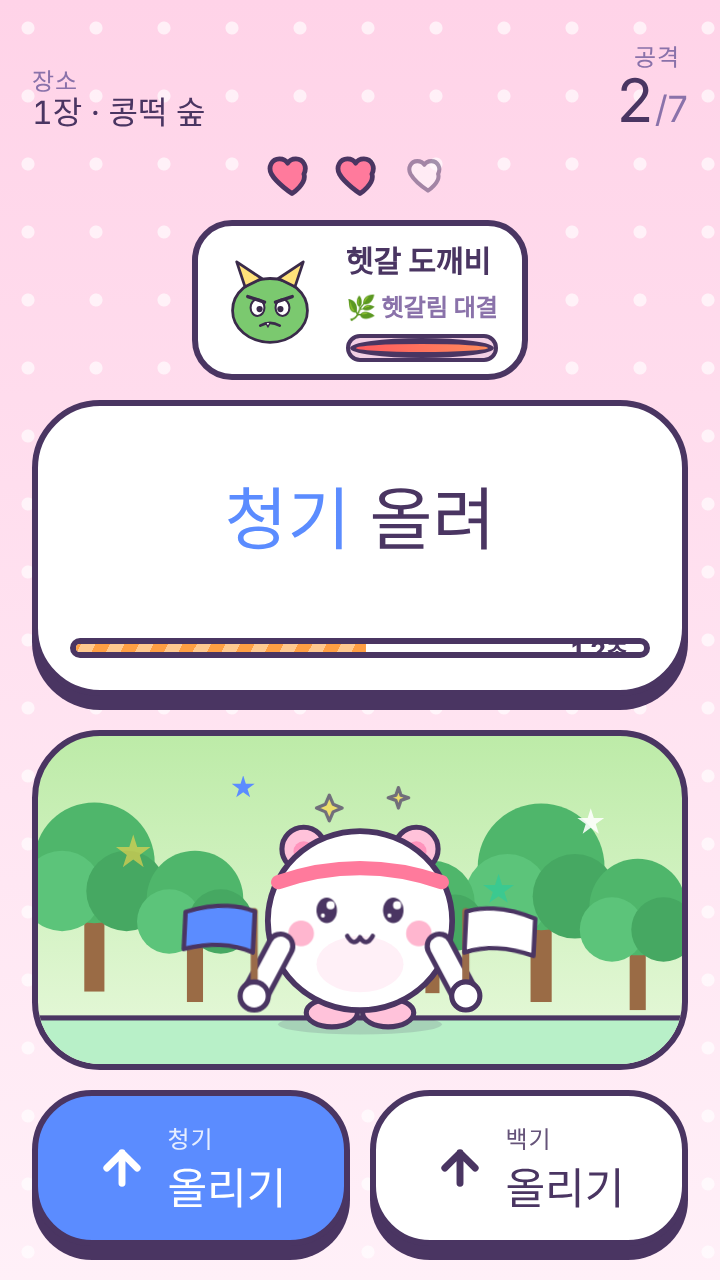
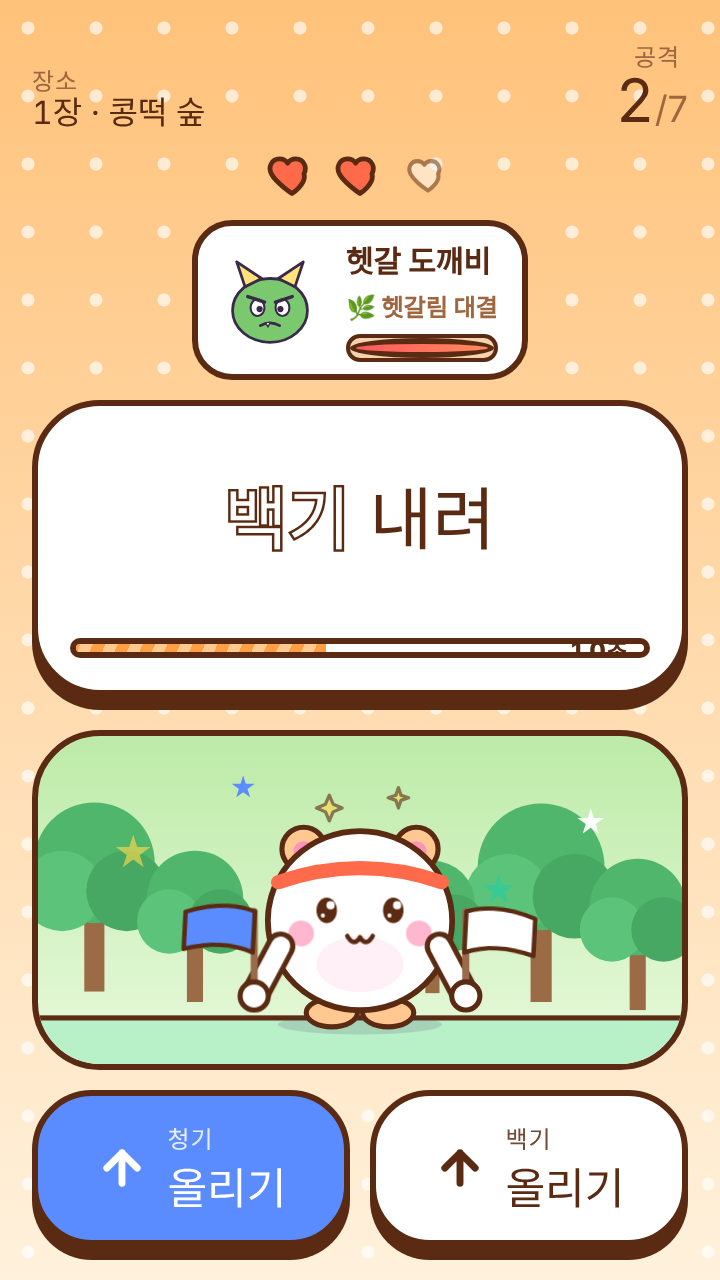
깃발용사: switch default theme from pink to orange; refresh store screenshots
Claude-Session: https://claude.ai/code/session_0134mUxM4o6J5pGvRH1fZomD

diff --git a/hero/index.html b/hero/index.html
@@ -175,11 +175,11 @@ textarea{width:100%; border-radius:16px; border:2px solid var(--line); backgroun
 </style>
 <style>
 
-/* 2-1 cute: candy-pink sticker world, thick plum outlines, round mascot 몽글이 */
+/* 2-1 cute: candy-orange sticker world, thick plum outlines, round mascot 몽글이 */
 :root{
-  --sky:#FFD3E8; --sky2:#FFF0F8; --stage:#FFE4F2; --grass:#B8F0C8; --grass-dk:#9BE4B0;
-  --ink:#4A3562; --ink-soft:#8A72AA; --card:#FFFFFF; --line:#F2CFE4;
-  --blue:#5B8CFF; --blue-dk:#3A62D8; --sun:#FFD84D; --coral:#FF7A9C; --mint:#2FCB98;
+  --sky:#FFC27A; --sky2:#FFF1DC; --stage:#FFE2BE; --grass:#B8F0C8; --grass-dk:#9BE4B0;
+  --ink:#5A2B12; --ink-soft:#A0663F; --card:#FFFFFF; --line:#F6D2AE;
+  --blue:#5B8CFF; --blue-dk:#3A62D8; --sun:#FFD84D; --coral:#FF6B4A; --mint:#2FCB98;
   --wood:#9A6B4A;
   --display:'Jua','Noto Sans KR',system-ui,sans-serif;
   --body:'Gowun Dodum','Noto Sans KR',system-ui,sans-serif;
@@ -199,7 +199,7 @@ body{background-image:radial-gradient(circle at 14px 14px,rgba(255,255,255,.65) 
 .timer{height:16px; border:3px solid var(--ink); background:#fff}
 .timer i{border-radius:0; background:repeating-linear-gradient(-45deg,var(--sun) 0 10px,#FFE98C 10px 20px)}
 .timer i.low{background:repeating-linear-gradient(-45deg,var(--coral) 0 10px,#FFA9BE 10px 20px)}
-.stage{border:3px solid var(--ink); border-radius:34px; background:radial-gradient(circle at 12px 12px,rgba(255,255,255,.75) 3px,transparent 3.5px) 0 0/30px 30px, linear-gradient(180deg,#FFE9F4 0%,#FFD0E6 100%)}
+.stage{border:3px solid var(--ink); border-radius:34px; background:radial-gradient(circle at 12px 12px,rgba(255,255,255,.75) 3px,transparent 3.5px) 0 0/30px 30px, linear-gradient(180deg,#FFE8C8 0%,#FFC890 100%)}
 .char{height:calc(100% - 4px)}
 .cloud.c1{top:22px} .cloud.c2{top:54px}
 .dec{position:absolute; width:var(--s,16px); height:var(--s,16px); background:var(--c,var(--sun)); clip-path:polygon(50% 0,61% 35%,98% 35%,68% 57%,79% 91%,50% 70%,21% 91%,32% 57%,2% 35%,39% 35%); animation:twinkle 1.4s ease-in-out infinite alternate}
@@ -238,7 +238,7 @@ details.hd summary{font-family:var(--display); font-weight:400; font-size:18px}
 #toast{font-family:var(--display); font-weight:400; font-size:16px}
 .k-ground{fill:var(--grass); stroke:var(--ink); stroke-width:4}
 .kc .shadow{fill:rgba(74,53,98,.16)}
-.k-ear,.k-foot{fill:#FFC2DA; stroke:var(--ink); stroke-width:4}
+.k-ear,.k-foot{fill:#FFC890; stroke:var(--ink); stroke-width:4}
 .k-earin{fill:#FF93BC}
 .k-body{fill:#fff; stroke:var(--ink); stroke-width:4.5}
 .k-belly{fill:#FFF0F7}
@@ -386,7 +386,7 @@ svg [hidden]{display:none !important}
 :root[data-th="sky"] .stage{background:linear-gradient(180deg,#9FD6FF 0%,#EAF6FF 100%)!important}
 :root[data-th="forest"] .stage{background:linear-gradient(180deg,#BDEBA8 0%,#E8F9DC 100%)!important}
 :root[data-th="sea"] .stage{background:linear-gradient(180deg,#8AD3F5 0%,#DDF4FF 100%)!important}
-:root[data-th="park"] .stage{background:linear-gradient(180deg,#FFC4DD 0%,#FFF0C9 100%)!important}
+:root[data-th="park"] .stage{background:linear-gradient(180deg,#FFC78A 0%,#FFF0C9 100%)!important}
 :root[data-th="space"] .stage{background:linear-gradient(180deg,#171A4A 0%,#4A3F94 100%)!important}
 :root[data-th="snow"] .stage{background:linear-gradient(180deg,#B7D4F4 0%,#EEF6FF 100%)!important}
 :root[data-th="sea"][data-ch] {--grass:#F3DDA0;--grass-dk:#E8CC82}
